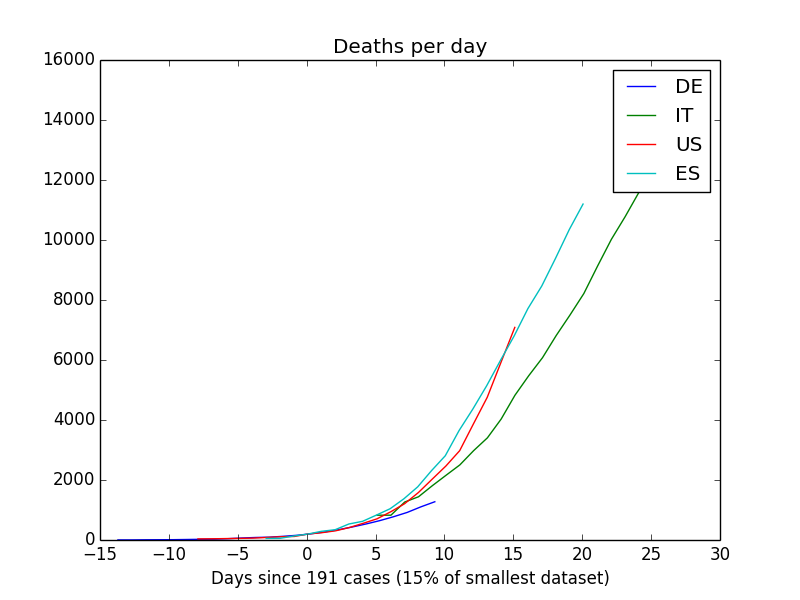
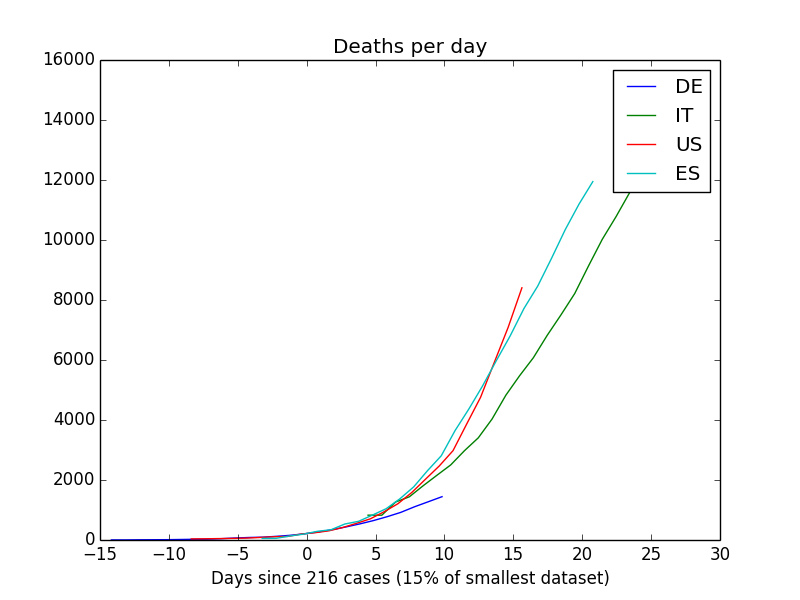
Update plots with data from April, 4th

diff --git a/README.md b/README.md
@@ -2,7 +2,7 @@
 
 Data is taken from the [2019 Novel Coronavirus COVID-19 Data Repository by Johns Hopkins CSSE](https://github.com/CSSEGISandData/COVID-19)
 
-### Last update: 03.04.2020
+### Last update: 04.04.2020
 
 ### Cases
 
